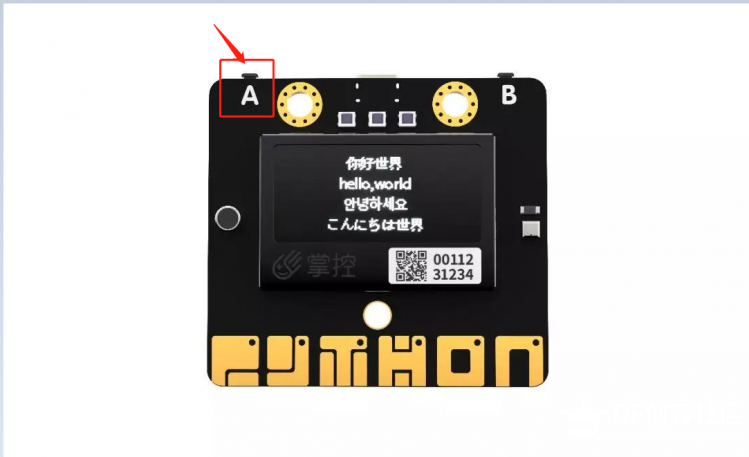
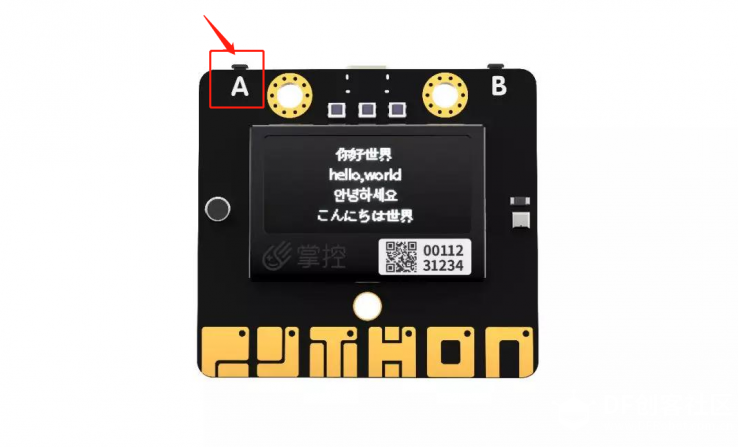
change2

Changed region(s): [[0.2493, 0.0582, 0.748, 0.8725], [0.0, 0.0, 1.0, 1.0], [0.3428, 0.5526, 0.4675, 0.6107]]

diff --git a/jiao-xue-chan-pin/hand-bit/zhang-kong-ban-shua-hao-da-gu-jian.md b/jiao-xue-chan-pin/hand-bit/zhang-kong-ban-shua-hao-da-gu-jian.md
@@ -58,7 +58,7 @@
 
 1.扫描上图二维码进入微信公众号-掌控操作说明。
 
-![](../../.gitbook/assets/zhangkong-12.png)
+![](../../.gitbook/assets/zhangkong-12.PNG)
 
 2.根据说明按住掌控板B键，进入配网状态，显示配网界面。扫描二维码获取mac地址。
 
